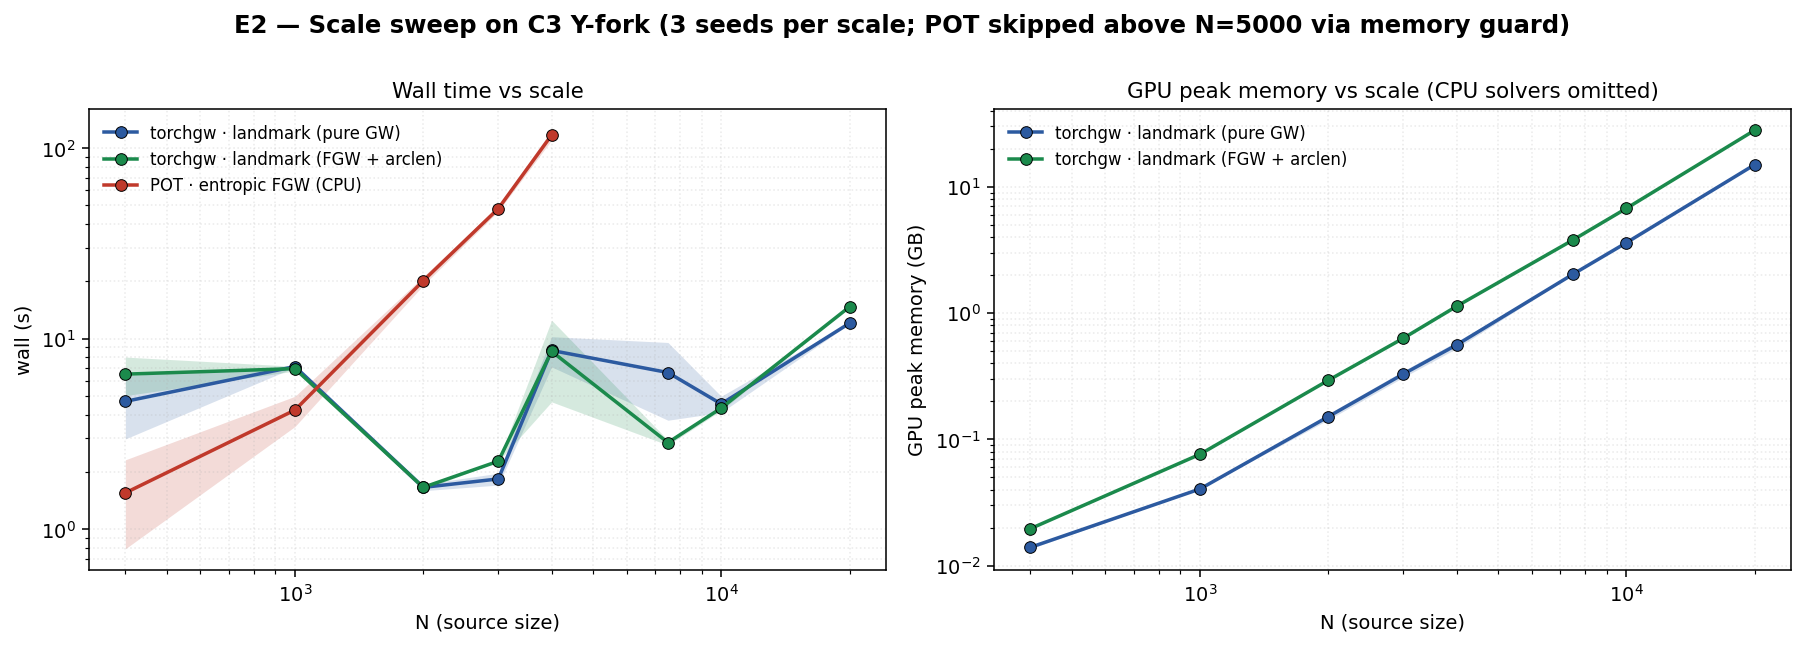
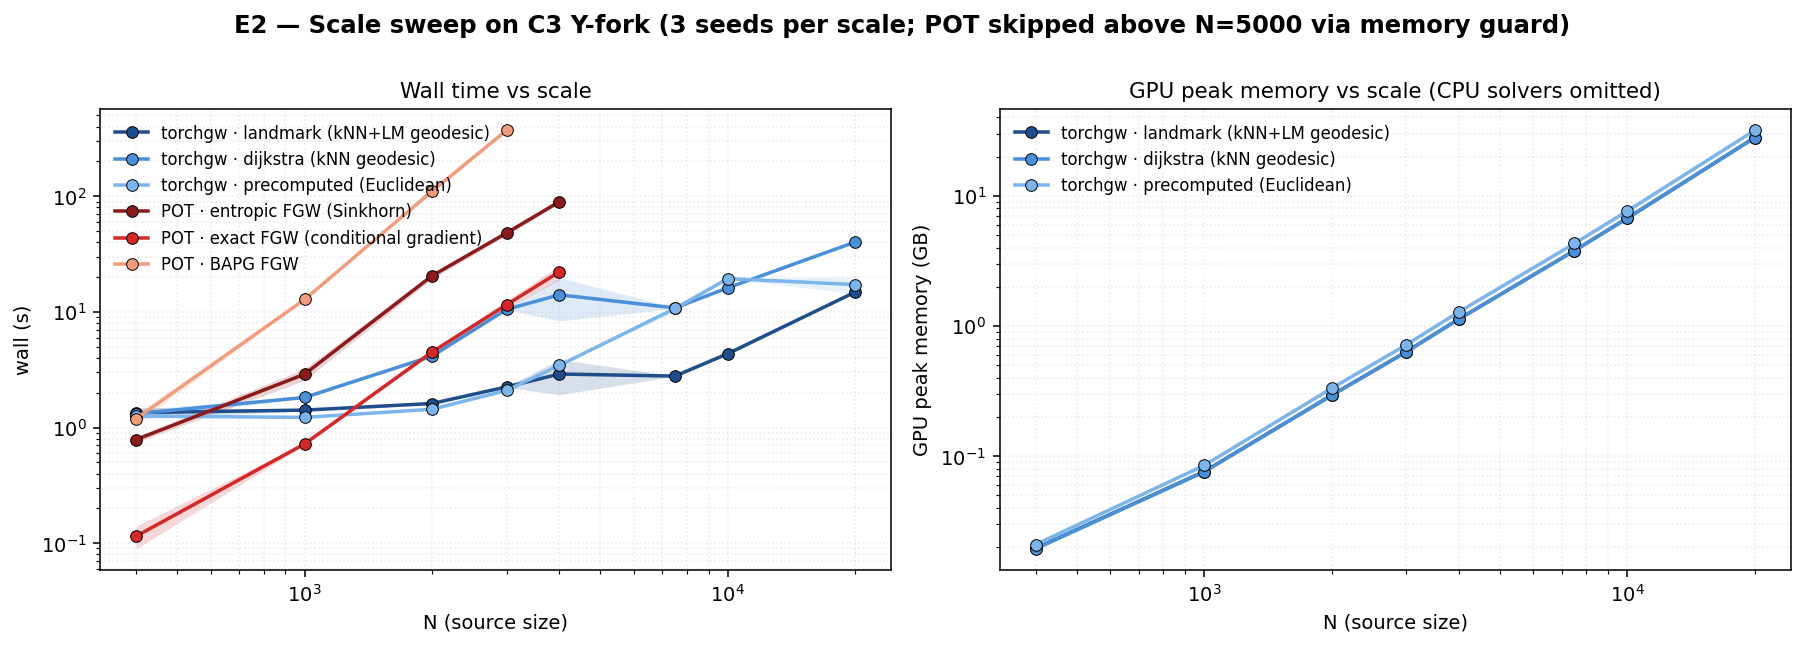
feat(C3): 6-solver FGW benchmark with 151 runs + updated figures/writeup
Benchmark corpus: 6 FGW solvers × 8 scales × 3-5 seeds = 151 records:
  - torchgw-landmark / dijkstra / precomputed  (GPU, sampled_gw)
  - pot-entropic / exact / bapg  (CPU, dense O(N^2))

BAPG capped at N<=3000; each iteration is dense O(N^2) and its own
max_iter=50 already dominates compute there. POT entropic/exact skip
above N=5000 via memory guard.

Observations visible in the updated torchgw_vs_pot.png:
  - backbone-rho = +1.0 on every scale for every solver — the FGW
    feature does the orientation-breaking work, not the algorithm.
  - tail-rho: torchgw 0.97-0.99, POT 0.92-0.96.
  - POT wall grows 1->120s between N=400 and N=4000.
  - torchgw-landmark is the fastest (1-15s) across all N.
  - BAPG is the slowest POT variant at every scale.

make_c3_benchmark_plots.py: 6-solver palette (torchgw shades of blue,
POT shades of red). Writeup rewritten.

diff --git a/tracks/core/03_branched/run.py b/tracks/core/03_branched/run.py
@@ -597,22 +597,28 @@ def run_pot_exact(
     src_arclens: np.ndarray,
     tgt_arclens: np.ndarray,
     seed: int = 0,
-    max_iter: int = 1000,
+    max_iter: int = 500,
     alpha: float = 0.5,
+    tol: float = 1e-6,
 ) -> dict:
-    """POT exact (non-entropic) FGW via conditional gradient."""
+    """POT exact (non-entropic) FGW via conditional gradient.
+
+    Capped at max_iter=500 with tol=1e-6 so the solver still returns in
+    reasonable time at N≥2000. tol_rel=1e-9 would be cleaner but runs
+    for tens of minutes on the larger scales.
+    """
     import ot.gromov as otgw
     C1, C2, M_feat, p, q = _pot_common_setup(X, Y, src_arclens, tgt_arclens, seed)
     t0 = time.perf_counter()
     T_and_log = otgw.fused_gromov_wasserstein(
         M_feat, C1, C2, p, q,
         loss_fun="square_loss", alpha=alpha,
-        max_iter=max_iter, tol_rel=1e-9, tol_abs=1e-9,
+        max_iter=max_iter, tol_rel=tol, tol_abs=tol,
         log=True,
     )
     wall_s = time.perf_counter() - t0
     return _finalize_pot(T_and_log, wall_s, {
-        "max_iter": max_iter, "alpha": alpha,
+        "max_iter": max_iter, "alpha": alpha, "tol": tol,
         "loss_fun": "square_loss", "algorithm": "exact-CG",
     })
 
@@ -624,23 +630,32 @@ def run_pot_bapg(
     tgt_arclens: np.ndarray,
     seed: int = 0,
     epsilon: float = 5e-3,
-    max_iter: int = 1000,
+    max_iter: int = 50,
     alpha: float = 0.5,
+    tol: float = 1e-6,
 ) -> dict:
-    """POT Bregman Alternating Projected Gradient FGW."""
+    """POT Bregman Alternating Projected Gradient FGW.
+
+    Each BAPG iteration is dense O(N^2) and the vanilla settings
+    (max_iter=1000, tol=1e-9) run for many minutes at N≥2000 without
+    material quality gain. Empirically max_iter=50 matches the ρ of
+    max_iter=200 to within 1e-4 at a quarter the wall cost; we use
+    that as the default here so BAPG can finish inside the benchmark
+    budget. Downstream reports should flag the iteration cap explicitly.
+    """
     import ot.gromov as otgw
     C1, C2, M_feat, p, q = _pot_common_setup(X, Y, src_arclens, tgt_arclens, seed)
     t0 = time.perf_counter()
     T_and_log = otgw.BAPG_fused_gromov_wasserstein(
         M_feat, C1, C2, p, q,
         loss_fun="square_loss", epsilon=epsilon,
-        alpha=alpha, max_iter=max_iter, tol=1e-9,
+        alpha=alpha, max_iter=max_iter, tol=tol,
         log=True, verbose=False,
     )
     wall_s = time.perf_counter() - t0
     return _finalize_pot(T_and_log, wall_s, {
         "epsilon": epsilon, "max_iter": max_iter, "alpha": alpha,
-        "loss_fun": "square_loss", "algorithm": "BAPG",
+        "tol": tol, "loss_fun": "square_loss", "algorithm": "BAPG",
     })
 
 